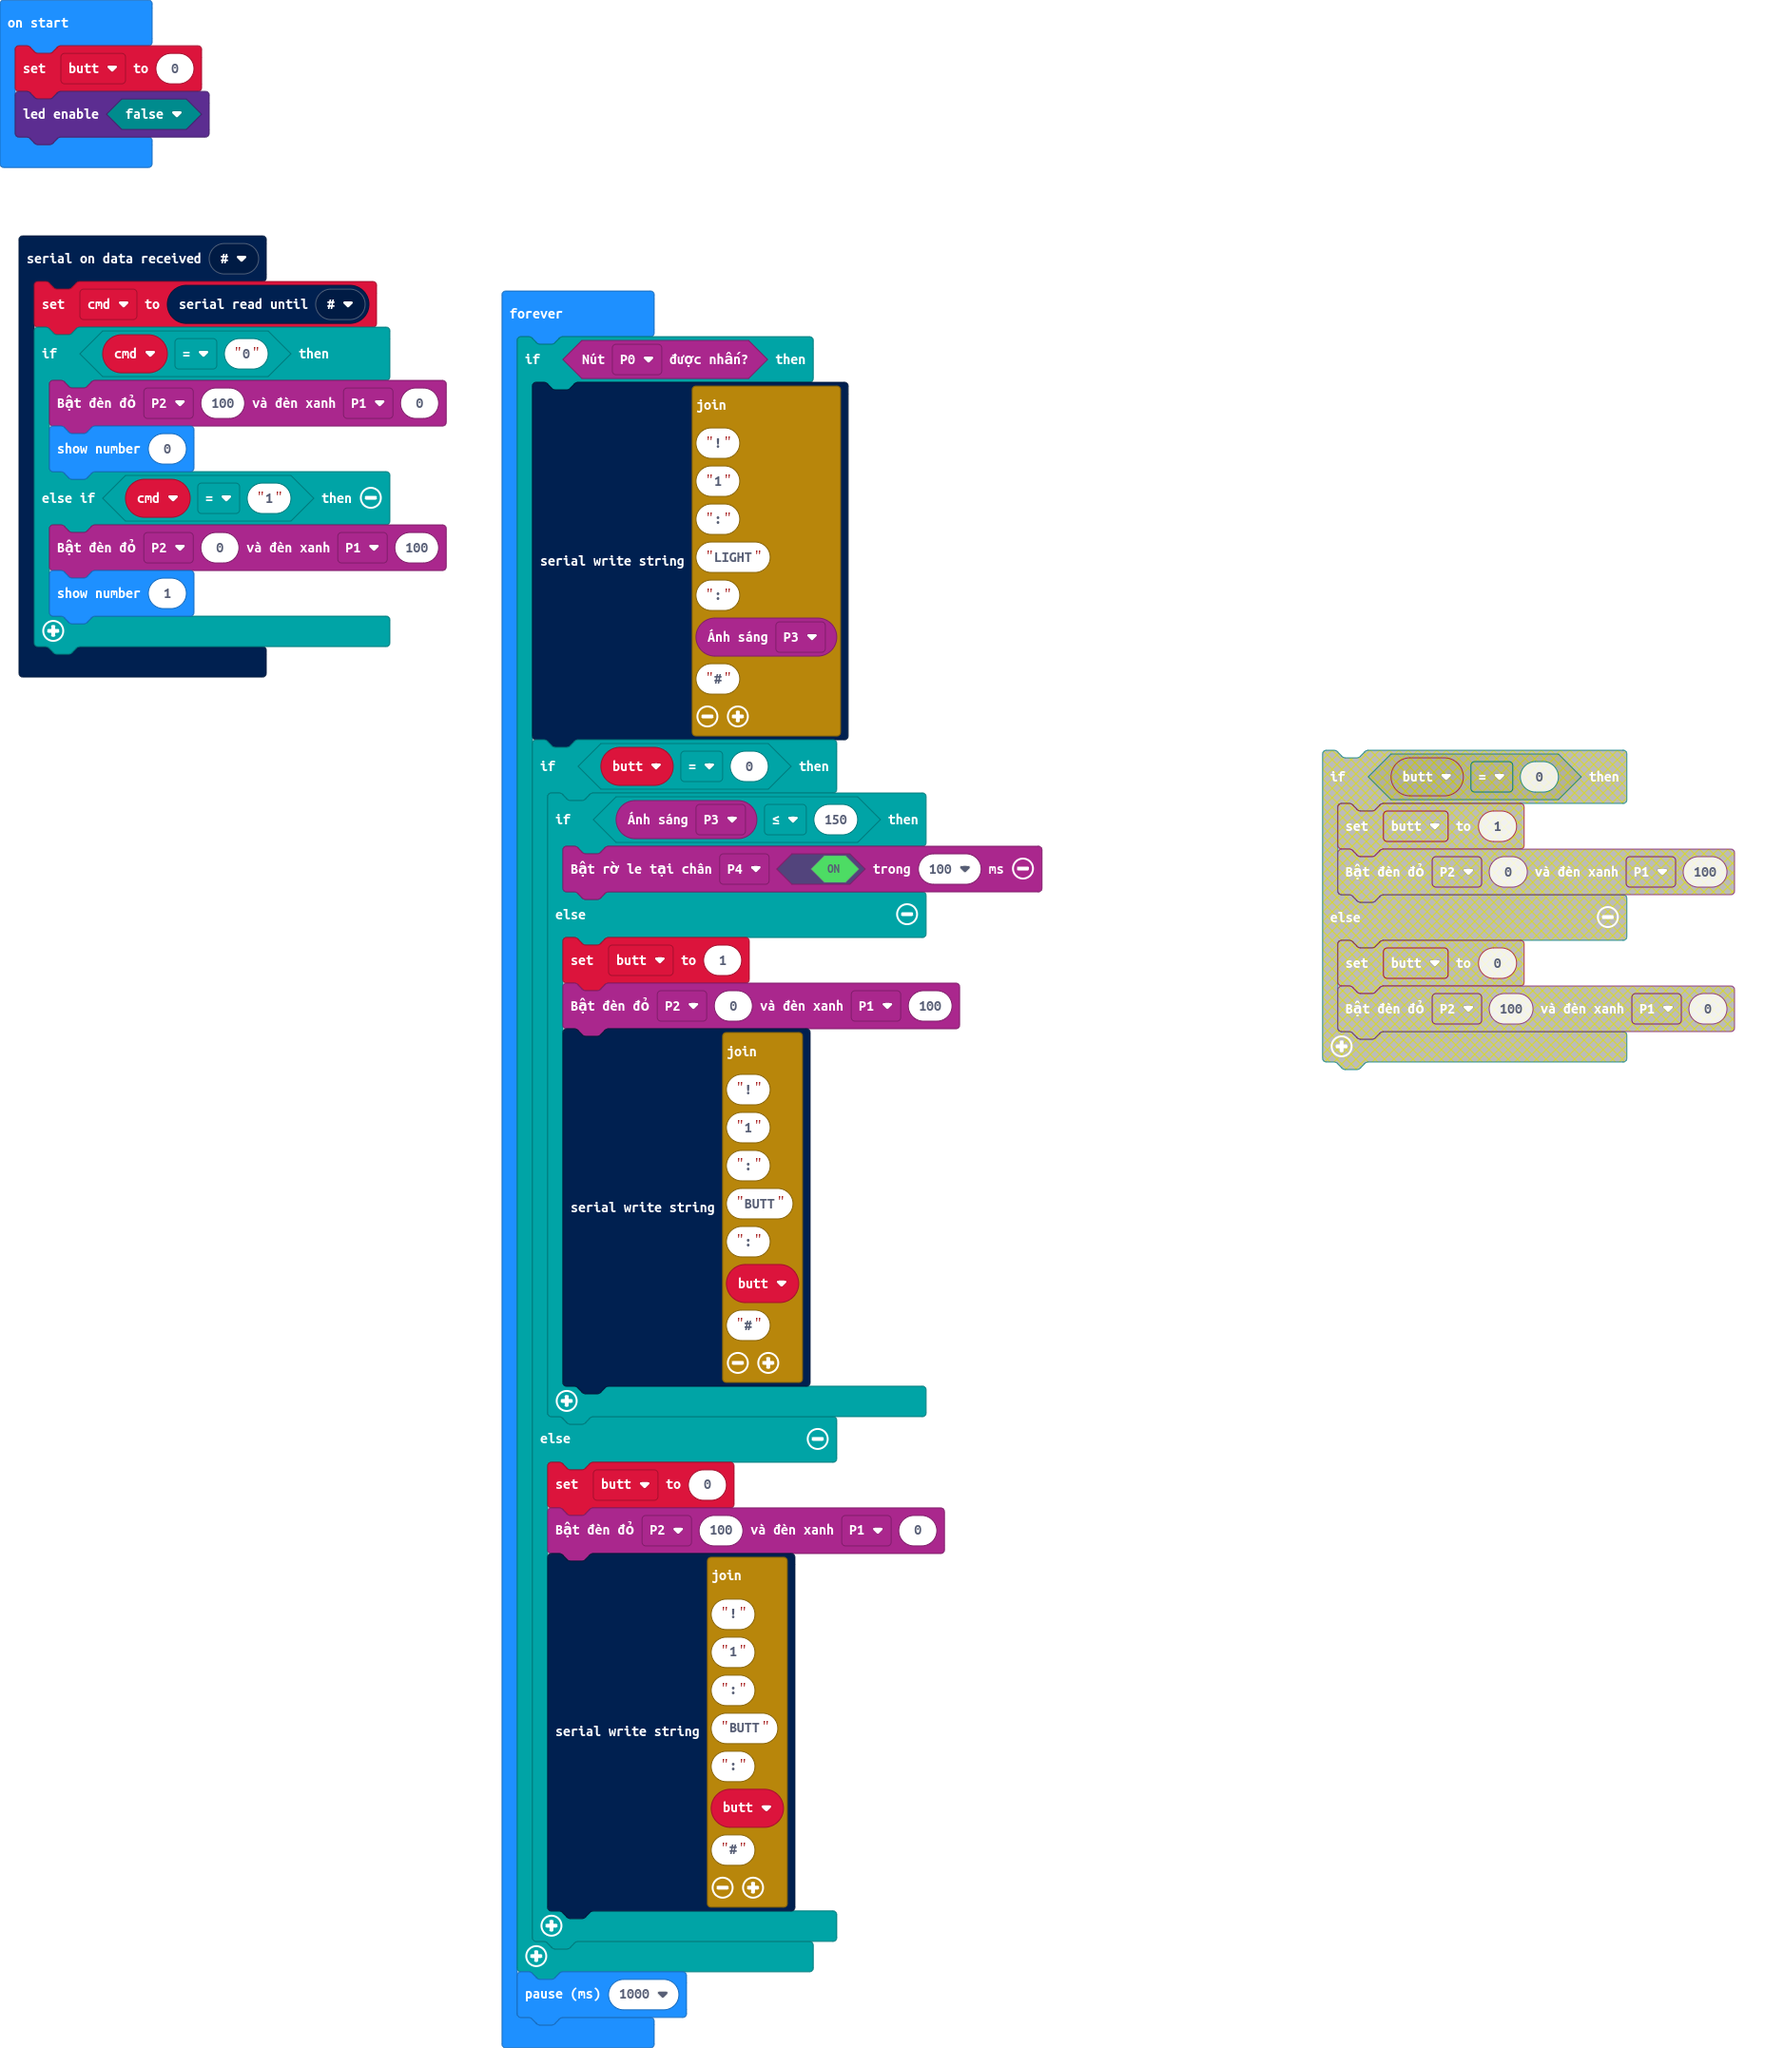
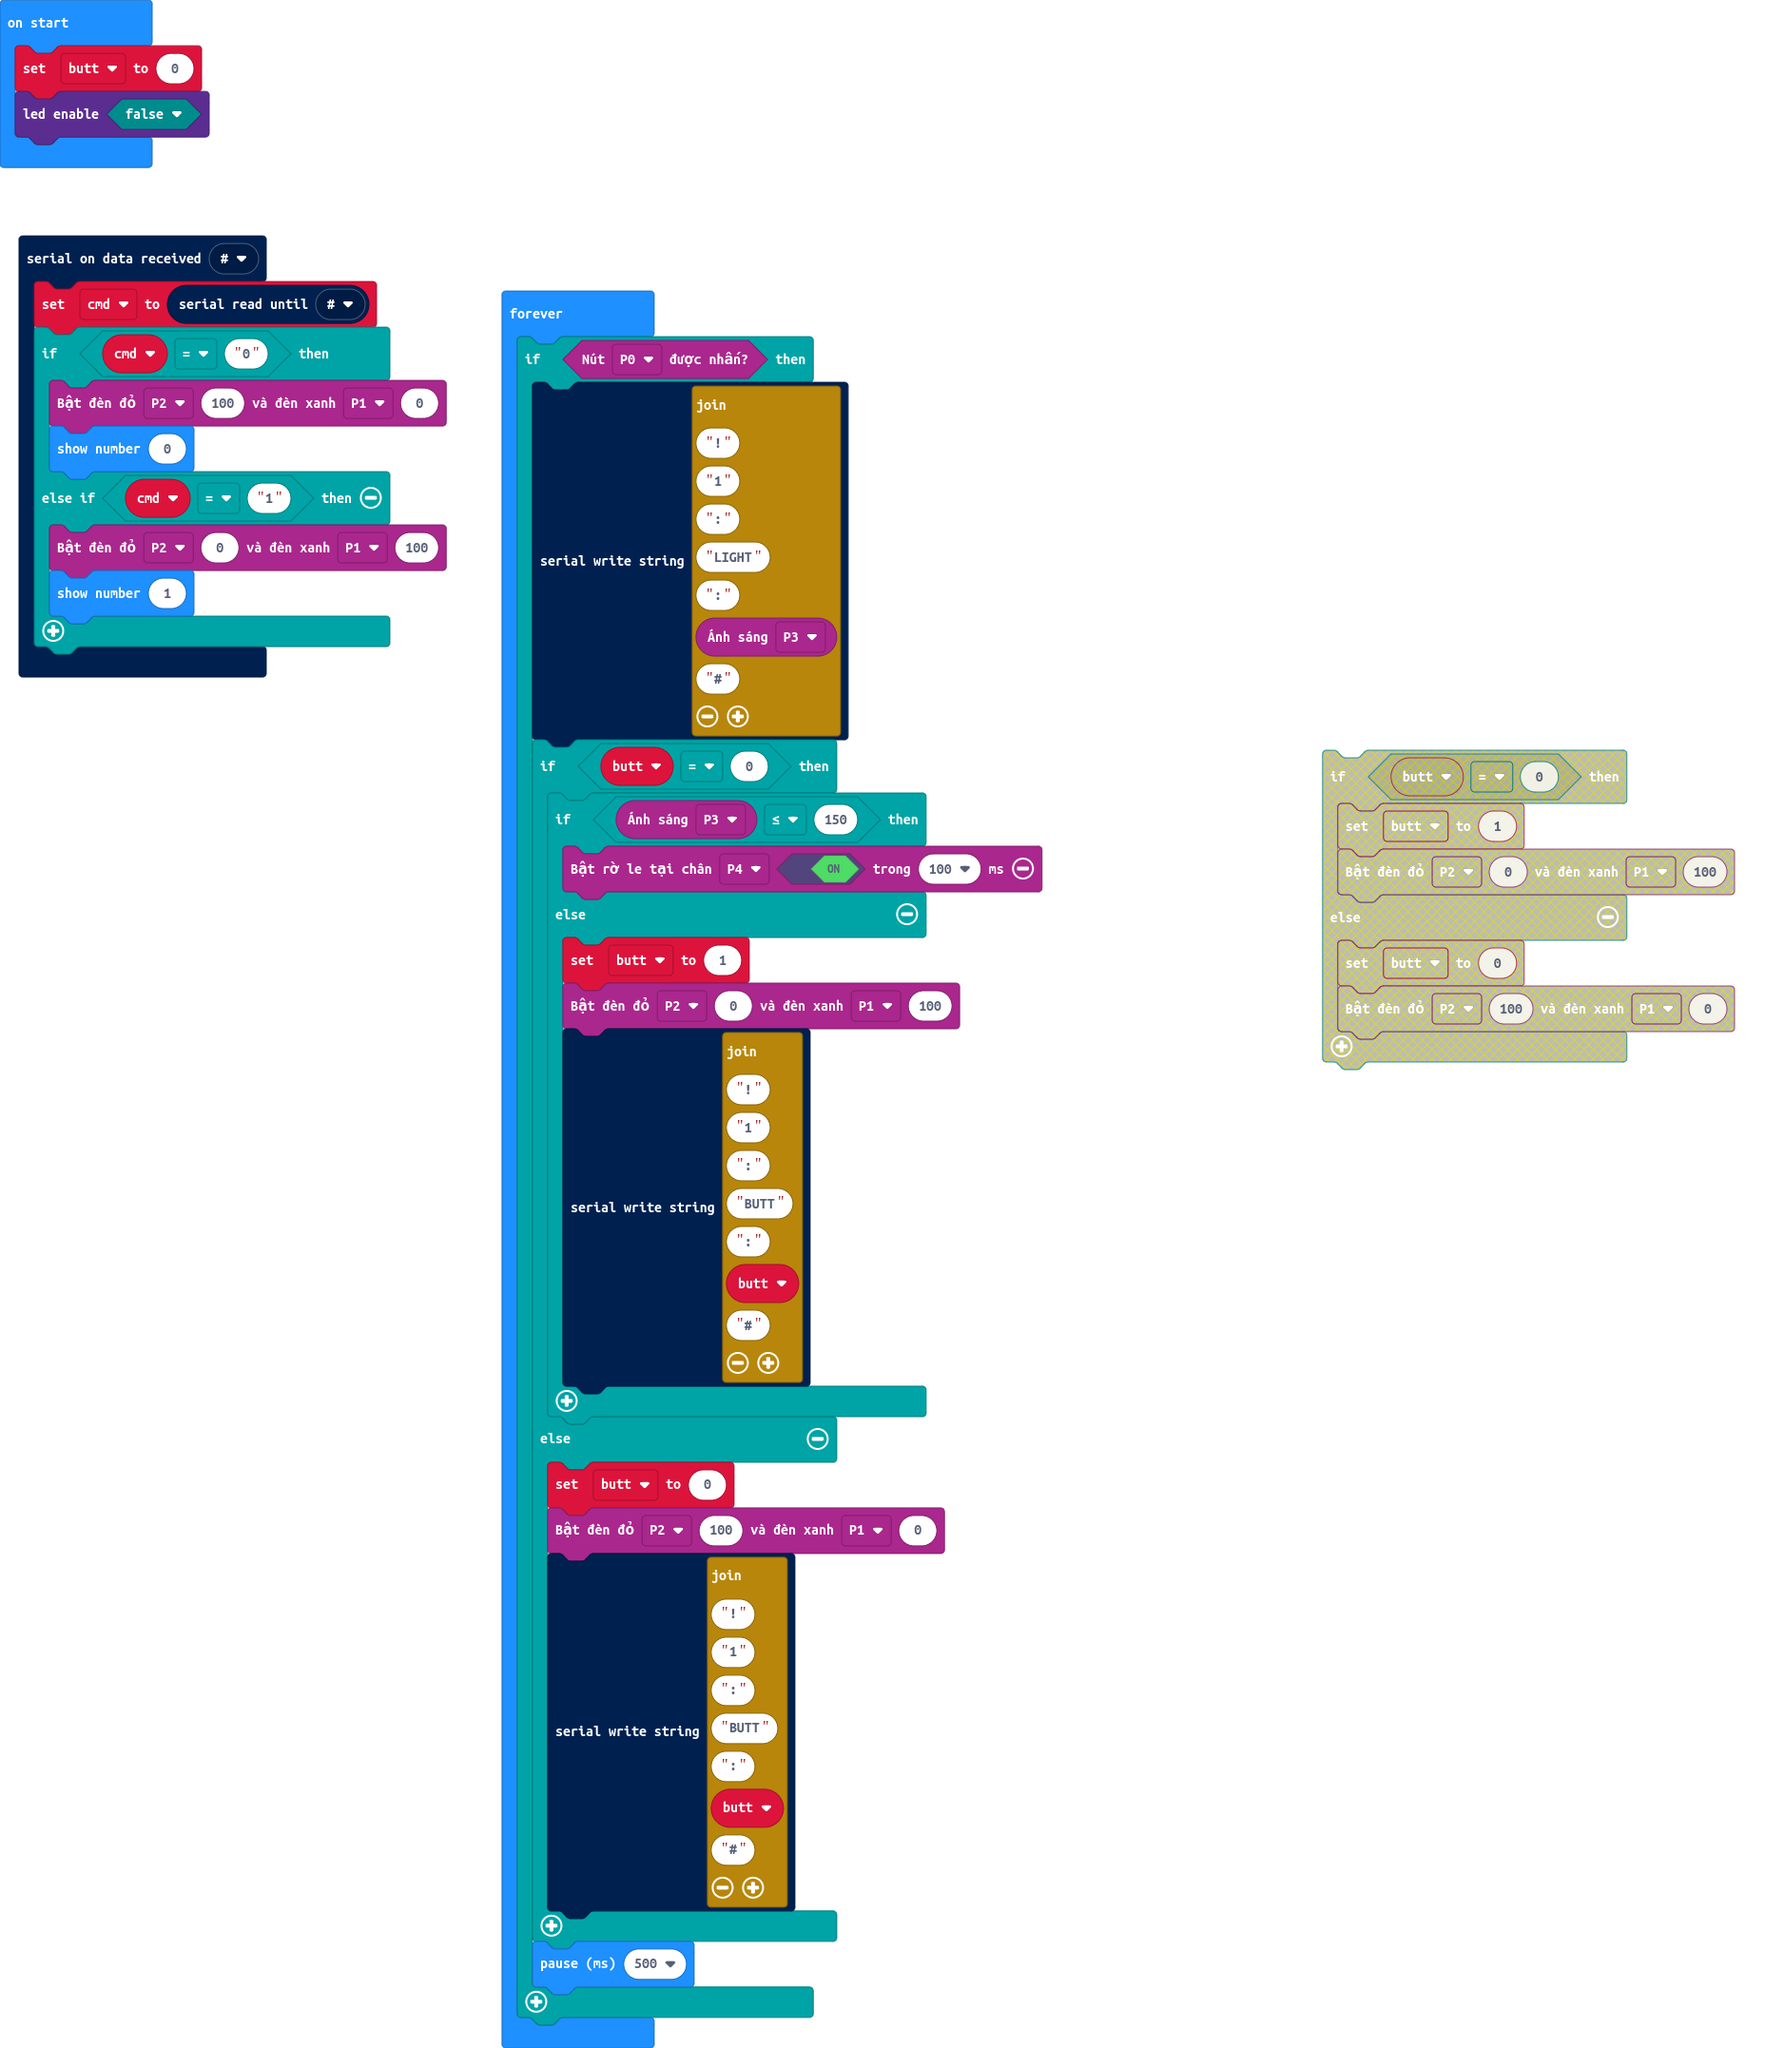
Update main.blocks, main.ts

Changed region(s): [[0.2783, 0.9331, 0.4638, 0.9954]]

diff --git a/main.ts b/main.ts
@@ -27,6 +27,6 @@ basic.forever(function () {
             NPNBitKit.Led2ColorAnalog(AnalogPin.P2, 100, AnalogPin.P1, 0)
             serial.writeString("!" + "1" + ":" + "BUTT" + ":" + butt + "#")
         }
+        basic.pause(500)
     }
-    basic.pause(1000)
 })
